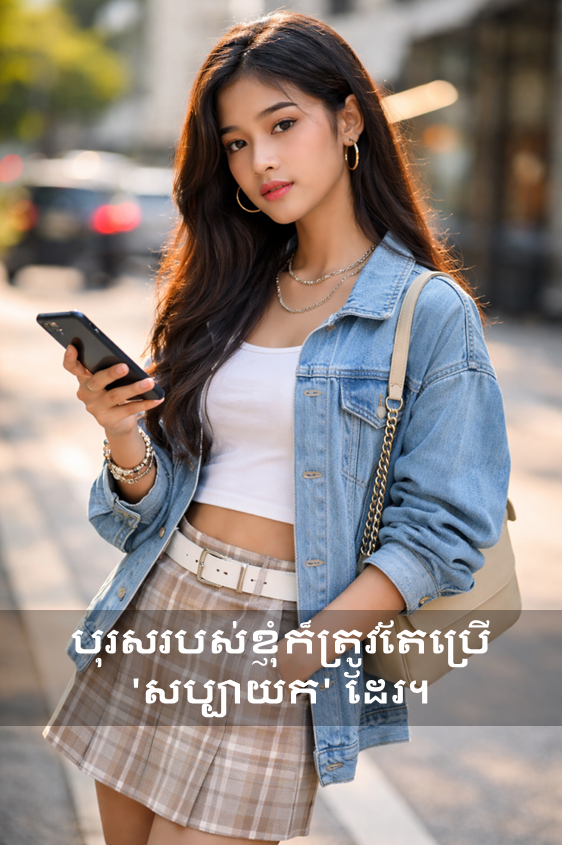
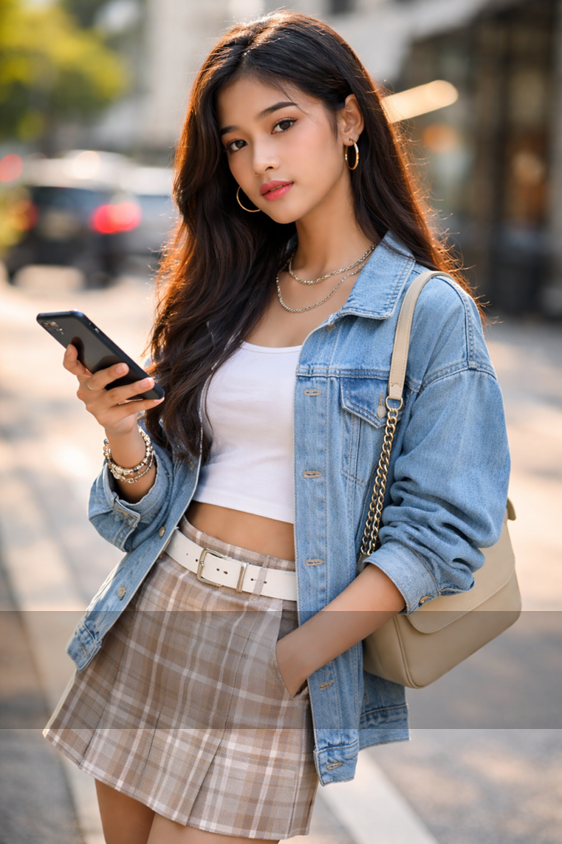
Add files via upload

Changed region(s): [[0.0, 0.7085, 1.0, 0.8626]]

diff --git a/index.html b/index.html
@@ -6,10 +6,44 @@
     <title>សប្បាយក</title>
     <script src="https://cdn.tailwindcss.com"></script>
     <link rel="icon" href="images/logo.png" type="image/png">
-    <style>
-        @import url('https://fonts.googleapis.com/css2?family=Noto+Sans+KR:wght@300;400;700;900&display=swap');
-        body { font-family: 'Noto Sans KR', sans-serif; word-break: keep-all; }
-    </style>
+<style>
+    /* 태국어에 최적화된 Sarabun 폰트를 불러옵니다 */
+    @import url('https://fonts.googleapis.com/css2?family=Sarabun:wght@300;400;700&display=swap');
+    
+    body { 
+        font-family: 'Sarabun', sans-serif; 
+        word-break: keep-all; 
+		line-break: loose;
+		overflow-x: hidden; /* 가로 스크롤 방지 */
+    }
+	span, p, h3 {
+    word-break: break-word;
+    overflow-wrap: break-word;
+}
+.hero-copy {
+    color: #ff0000;
+    left: 50%;
+    top: 50%;
+    transform: translate(-50%, -50%);
+    font-size: clamp(2rem, 6vw, 4rem);
+    text-shadow: 1px 1px 3px rgba(0,0,0,0.15);
+    white-space: nowrap;
+    text-align: center;
+}
+@media (max-width: 767px) {
+    .hero-copy {
+        color: white;
+        top: auto;
+        bottom: 12%;
+        transform: translateX(-50%);
+        font-size: clamp(2rem, 11vw, 2rem);
+        white-space: normal;
+        width: 90%;
+        text-shadow: 1px 1px 4px rgba(0,0,0,0.4);
+        bottom: 18%;
+    }
+}
+</style>
 </head>
 <body class="bg-gray-50 text-gray-900 leading-relaxed">
 
@@ -32,8 +66,11 @@
 <section class="w-full relative">
     <picture>
         <source media="(max-width: 767px)" srcset="images/hero_mobile.png">
-        <img src="images/hero.png" alt="Sabayka Hero" class="w-full object-cover">
+        <img src="images/hero.png" alt="Hatabang Hero" class="w-full object-cover">
     </picture>
+    <p class="absolute font-bold leading-snug hero-copy">
+        យើងគឺជាជំនាន់សប្បាយក
+    </p>
 </section>
 
 <section id="intro" class="py-20 bg-white text-center px-6">
